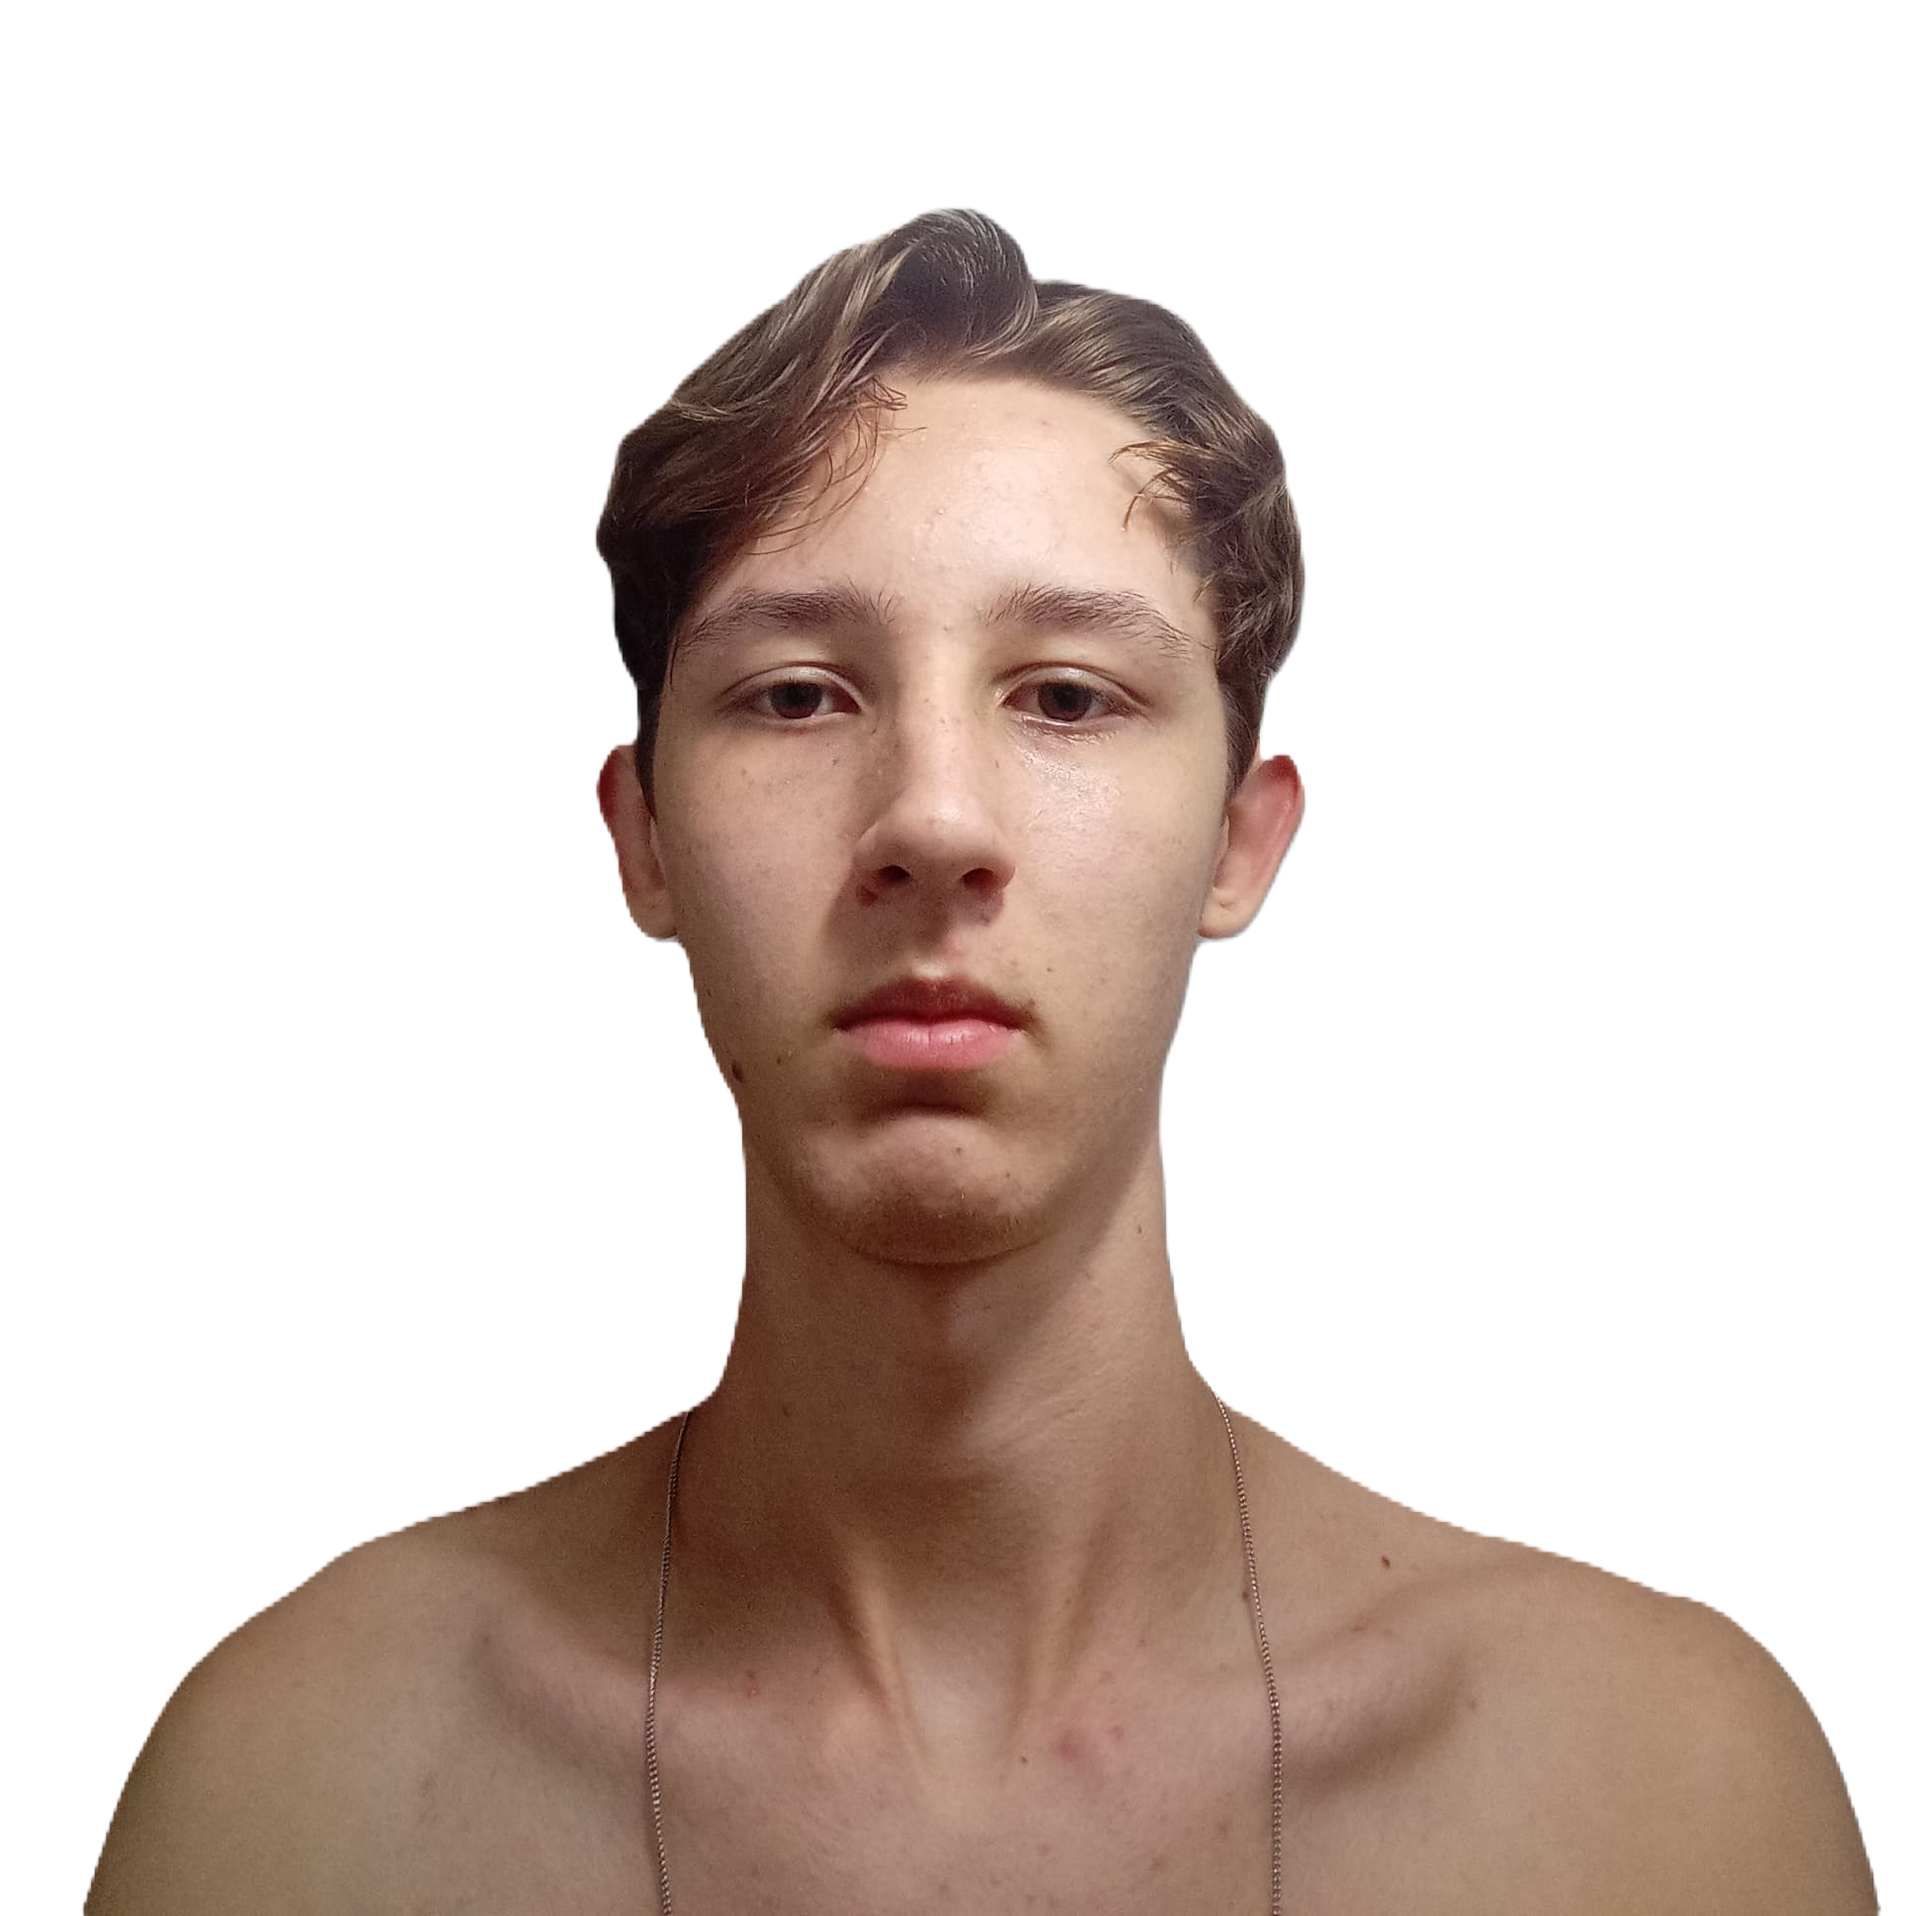
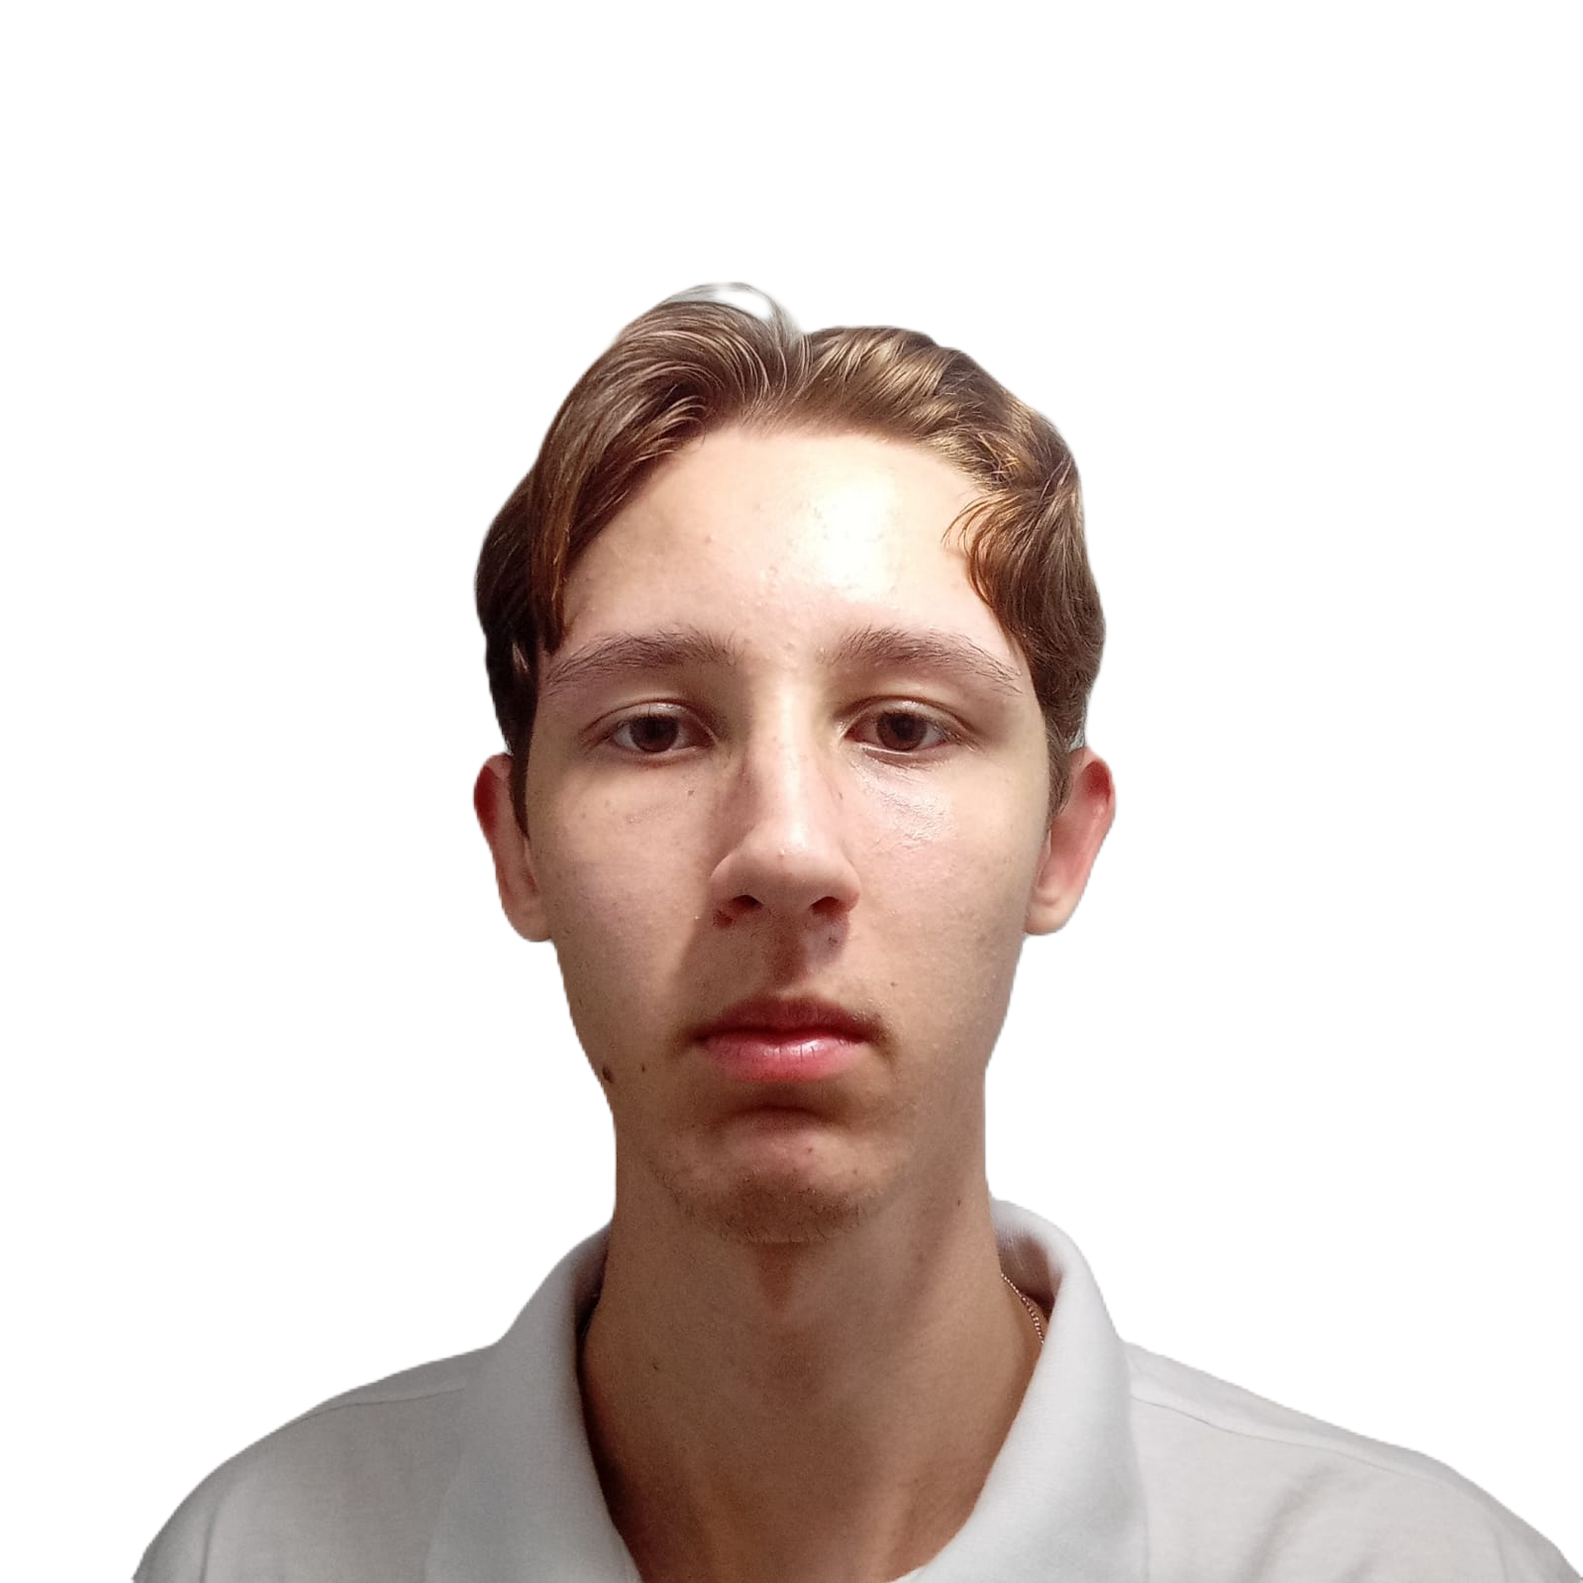
subsittuição da imagem e um pouco de responsividade

diff --git a/portifolio/src/components/PartTwo/PartTwo.css b/portifolio/src/components/PartTwo/PartTwo.css
@@ -1,3 +1,8 @@
+body {
+    width: 100dvw;
+    overflow-x: hidden;
+}
+
 * {
     margin: 0 0 0 0;
     padding: 0 0 0 0;
@@ -23,16 +28,10 @@
 .TitleSkill {
     color: black;
     font-size: 70px;
-    /* transform: translateY(+20%); */
-    /* opacity: 0; */
-    /* filter: blur(30px); */
     transition: all 0.3s;
 }
 
 .fx {
-    /* transform: translateY(+20%); */
-    /* opacity: 0; */
-    /* filter: blur(30px); */
     transition: all 0.3s;
 }
 
@@ -46,17 +45,12 @@
 
 .tt1 {
     font-size: 30px;
-    /* transform: translateY(+20%); */
-    /* opacity: 0; */
-    /* filter: blur(30px); */
     transition: all 0.3s;
+    white-space: nowrap;
 }
 
 .icons {
     margin: 20px 15px 0 15px;
-    /* transform: translateY(+20%); */
-    /* opacity: 0; */
-    /* filter: blur(30px); */
     transition: all 0.3s;
 }
 

diff --git a/portifolio/src/components/Faixa/Faixa.js b/portifolio/src/components/Faixa/Faixa.js
@@ -19,7 +19,7 @@ function Faixa() {
                     <li onClick={() => scrollToElements('SobreMim')}>Sobre Mim</li>
                     <li onClick={() => scrollToElements('Skills')}>Minhas Skill's</li>
                     <li onClick={() => scrollToElements('SoftSkill')}>Soft Skill's</li>
-                    <li onClick={() => scrollToElements('MeusServicos')}>Meus Serviços</li>
+                    <li onClick={() => scrollToElements('MeusServicos')}>Projetos</li>
                     <li onClick={() => scrollToElements('contato')}>Contato</li>
                     <li><a href="/Curriculo.docx" download="Curriculo.docx">Baixar Curriculo</a></li>
                 </ul>

diff --git a/portifolio/src/components/PartOne/Risco.css b/portifolio/src/components/PartOne/Risco.css
@@ -1,6 +1,11 @@
 @import url('https://fonts.googleapis.com/css2?family=Newsreader:ital,opsz,wght@0,6..72,200..800;1,6..72,200..800&display=swap');
 /* font-family: "Newsreader", serif; */
 
+body {
+    width: 100dvw;
+    overflow-x: hidden;
+}
+
 * {
     margin: 0 0 0 0 ;
     padding: 0 0 0 0 ;
@@ -86,4 +91,26 @@
 
 .txtxtxtxtxt {
     margin-top: -50px;
+}
+
+@media (max-width: 1024px) {
+    .container {
+        width: 40dvw;
+    }
+
+    .Faixaa {
+        width: 50dvw;
+    }
+
+    .TituloPrincipal {
+        font-size: 3rem;
+    }
+
+    .TextBox {
+        width: 45dvw;
+    }
+
+    .txtxtxtxtxt {
+        font-size: 15px;
+    }
 }

diff --git a/portifolio/src/components/Faixa/Faixa.css b/portifolio/src/components/Faixa/Faixa.css
@@ -1,6 +1,11 @@
 @import url('https://fonts.googleapis.com/css2?family=Kaisei+Tokumin&display=swap');
 /* font-family: "Kaisei Tokumin", serif; */
 
+body {
+    width: 100dvw;
+    overflow-x: hidden;
+}
+
 * {
     margin: 0;
     padding: 0;
@@ -66,8 +71,21 @@
     font-size: 25px;
     cursor: pointer;
     transition: 0.3s;
+    white-space: nowrap;   /* DEIXA A ESCRITA EM UMA SÓ LINHA */
 }
 
 .LOGOO:hover {
     transform: scale(+112%);
+}
+
+@media (max-width: 1024px) {
+    .NavBar {
+        margin-left: 13.5dvw;
+
+    }
+
+    .NavBar li {
+        margin: 0 15px 0 15px;
+        font-size: 15px;
+    }
 }

diff --git a/portifolio/src/App.css b/portifolio/src/App.css
@@ -64,3 +64,25 @@ body {
 .MyImage:hover {
   transform: scale(110%);
 }
+
+.LOGOO {
+  color: aqua;
+}
+
+/* PORTABILIDADE */
+@media (max-width: 1024px) {
+  body {
+    width: 100dvw;
+    overflow-x: hidden;
+  }
+
+  .IImage {
+    width: 30dvw;
+  }
+
+  .MyImage {
+    width: 30dvw;
+    height: 30dvw;
+    margin-left: 10dvw;
+  }
+}

diff --git a/portifolio/src/components/PartFour/PartFour.css b/portifolio/src/components/PartFour/PartFour.css
@@ -1,3 +1,8 @@
+body {
+    width: 100dvw;
+    overflow-x: hidden;
+}
+
 * {
     padding: 0;
     margin: 0;
@@ -49,4 +54,11 @@
 .icon {
     font-size: 2.1rem;
     margin: 5px 5px 0 5px;
+}
+
+/* RESPONSIVIDADE */
+@media (max-width: 1024px) {
+    .habilits {
+        width: 24dvw;
+    }
 }

diff --git a/portifolio/src/components/Footer/Footer.css b/portifolio/src/components/Footer/Footer.css
@@ -1,3 +1,8 @@
+body {
+    width: 100dvw;
+    overflow-x: hidden;
+}
+
 * {
     margin: 0;
     padding: 0;

diff --git a/portifolio/src/components/PartTree/PartTree.css b/portifolio/src/components/PartTree/PartTree.css
@@ -1,3 +1,8 @@
+body {
+    width: 100dvw;
+    overflow-x: hidden;
+}
+
 * {
     margin: 0;
     padding: 0;
